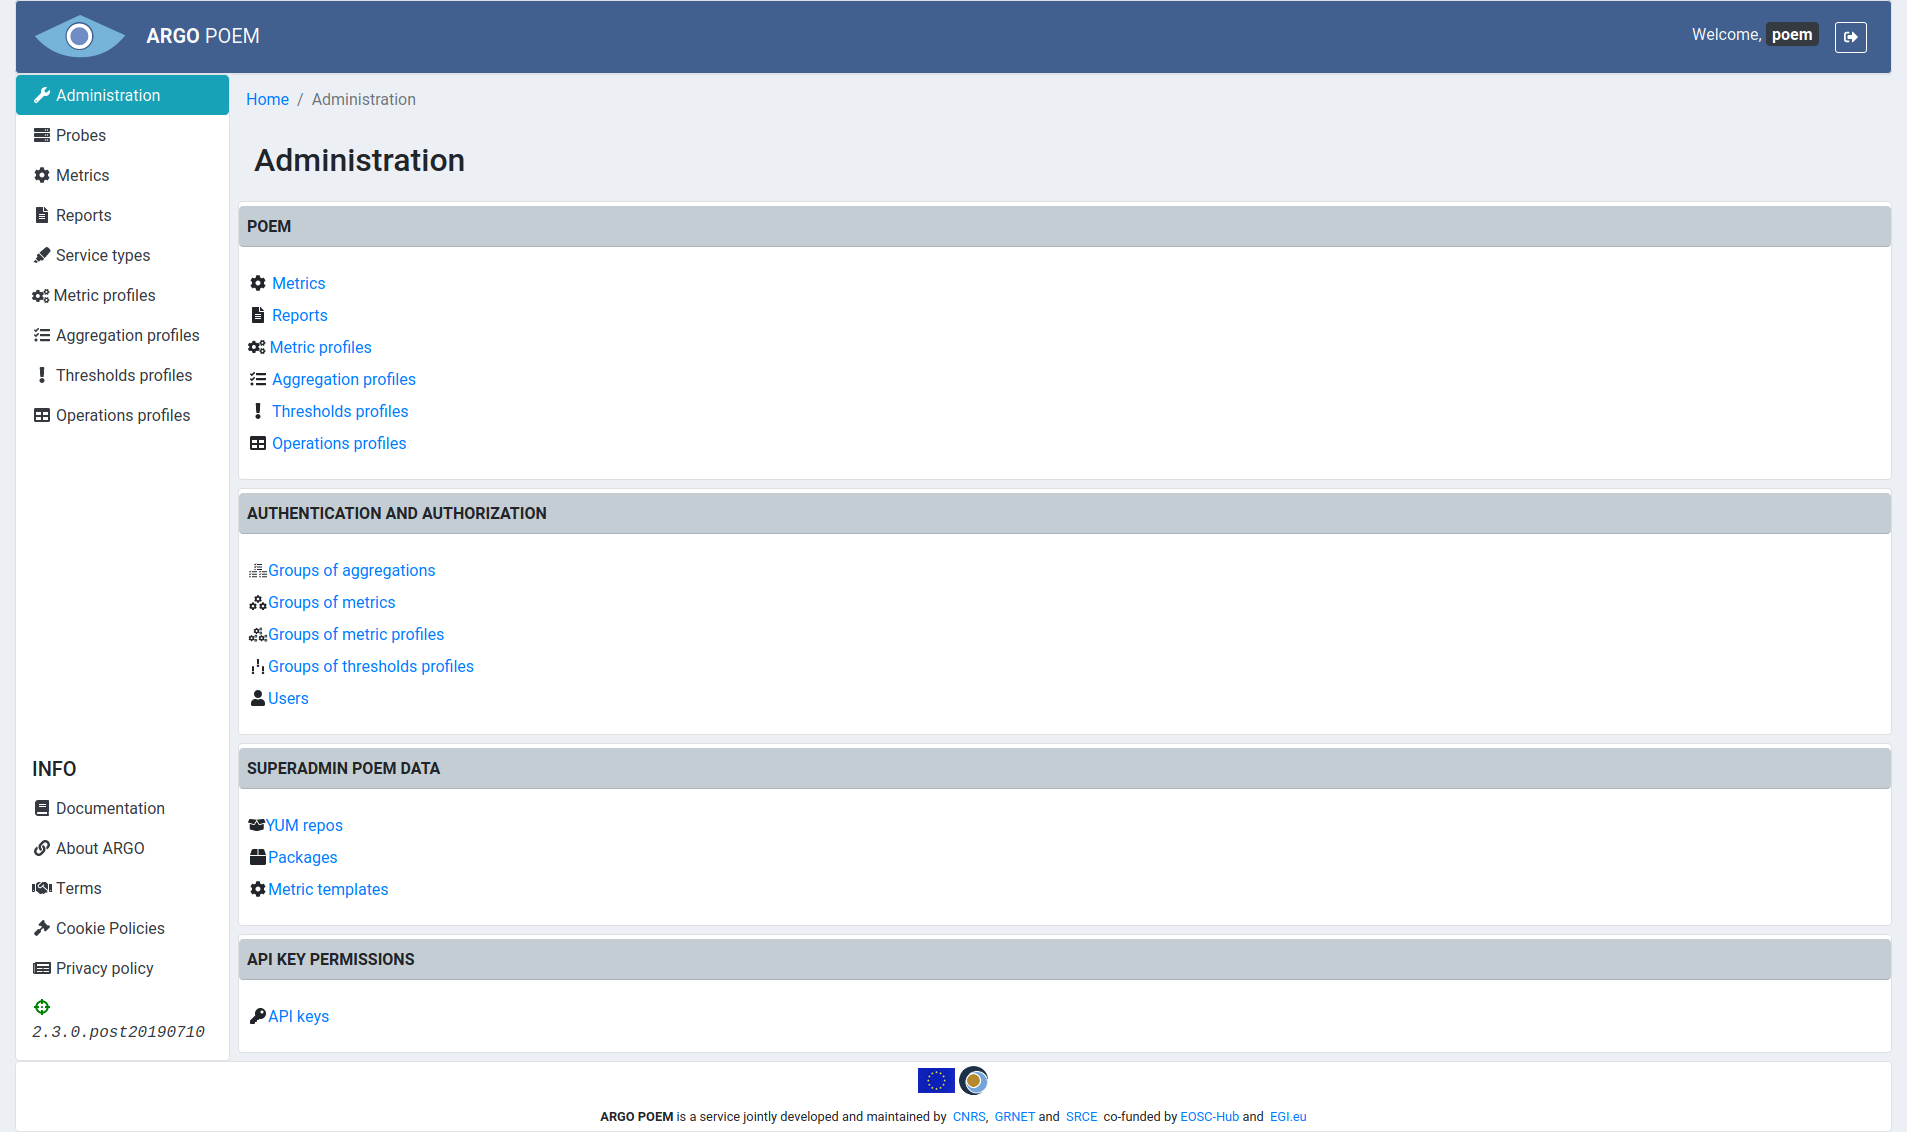
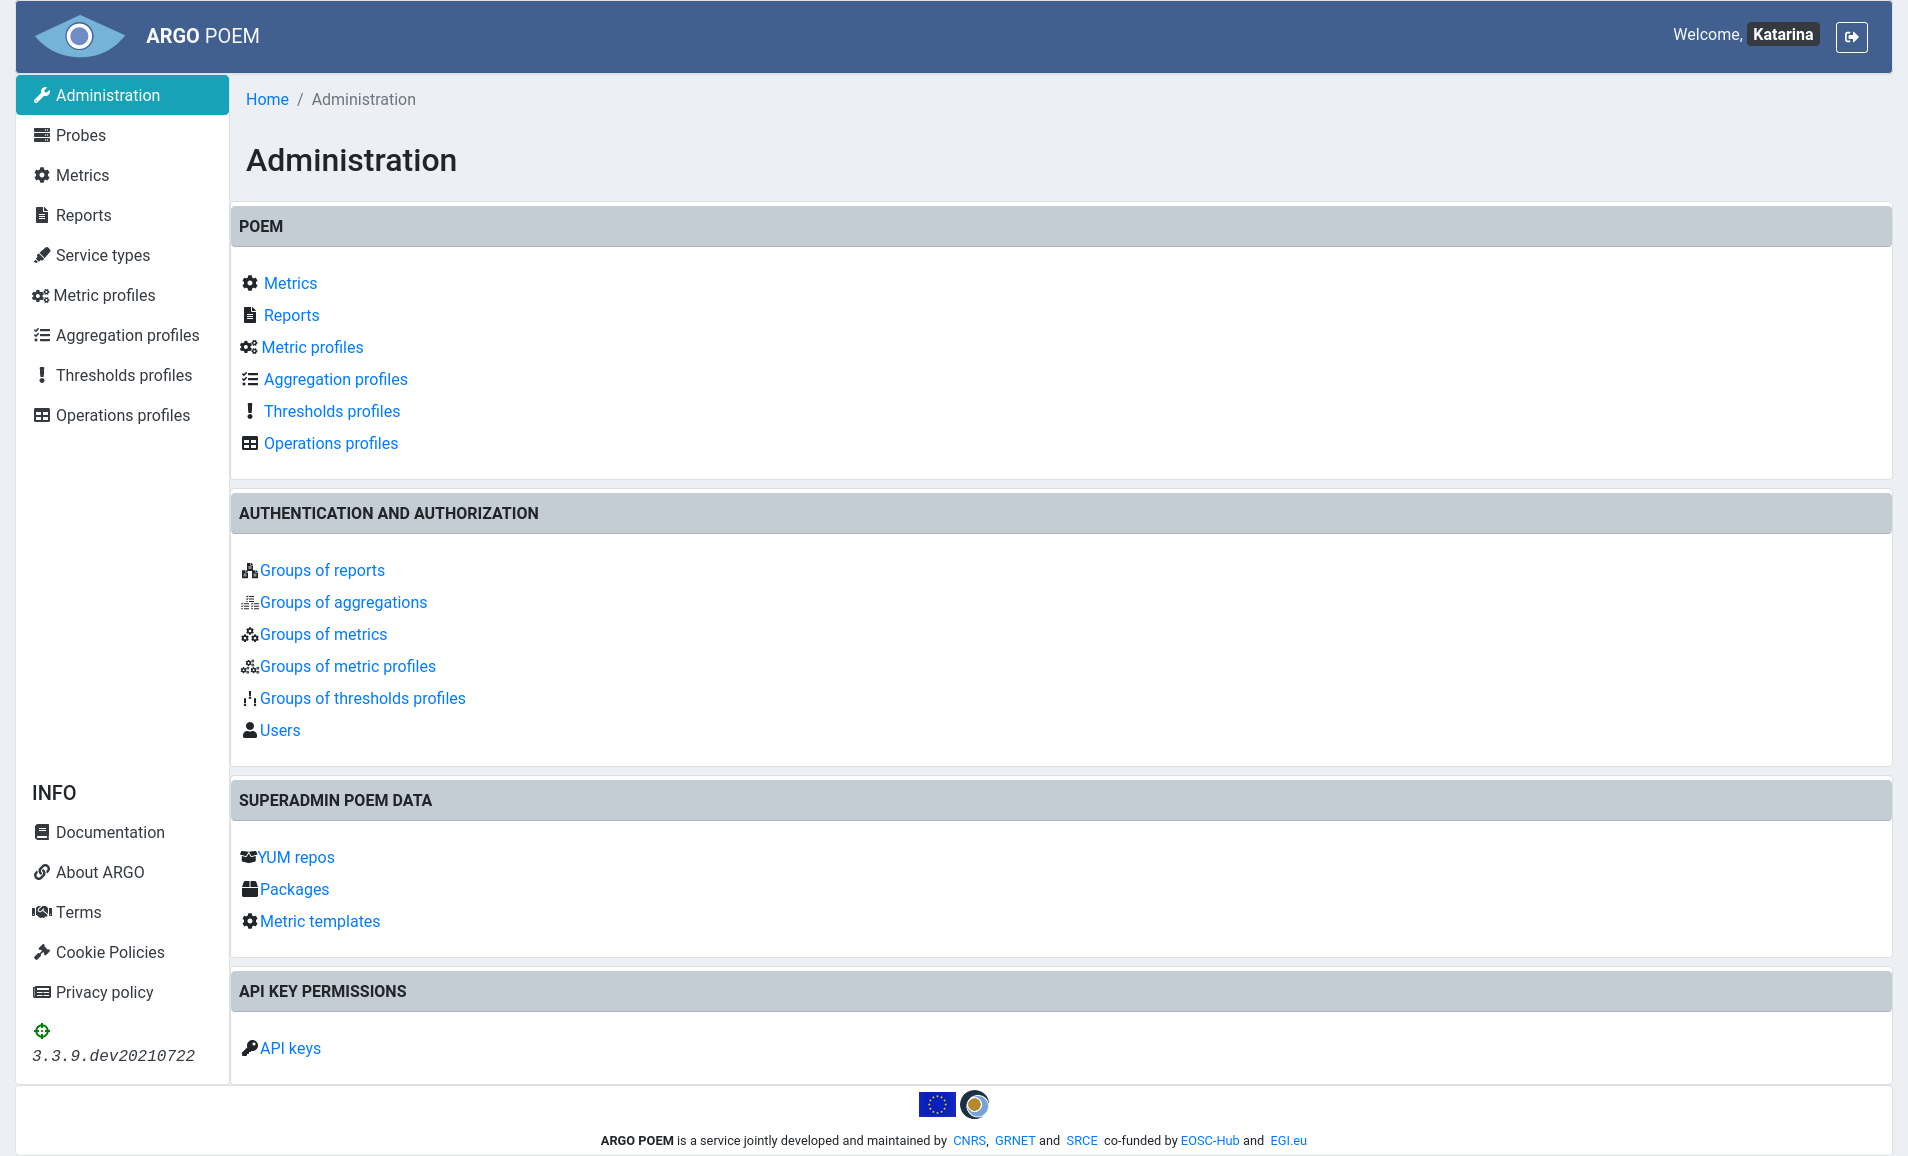
Update docs

diff --git a/poem/v1/tenant_groups_of_resources/index.html b/poem/v1/tenant_groups_of_resources/index.html
@@ -111,6 +111,8 @@
     
         <ul>
         
+            <li><a class="toctree-l4" href="#group-of-reports">Group of reports</a></li>
+        
             <li><a class="toctree-l4" href="#group-of-aggregations">Group of aggregations</a></li>
         
             <li><a class="toctree-l4" href="#group-of-metrics">Group of metrics</a></li>
@@ -220,15 +222,18 @@
             <div class="section">
               
                 <h1 id="groups-of-resources">Groups of resources</h1>
-<p>All the groups of resources are available through <a href="../tenant_administration/">Administration</a> page. There are four groups of resources:</p>
+<p>All the groups of resources are available through <a href="../tenant_administration/">Administration</a> page. There are five groups of resources:</p>
 <ul>
+<li>groups of reports,</li>
 <li>groups of aggregations,</li>
 <li>groups of metrics,</li>
 <li>groups of metric profiles,</li>
 <li>groups of thresholds profiles.</li>
 </ul>
-<p>All of the groups of resources pages look similar. By clicking the name of group, user opens page with details of that particular group of resource.</p>
+<p>All the groups of resources pages look similar. By clicking the name of group, user opens page with details of that particular group of resource.</p>
 <p>Images of groups of resources are shown below in respective sections.</p>
+<h2 id="group-of-reports">Group of reports</h2>
+<p><img alt="Tenant Group of reports" src="../figures/tenant_group_of_reports.png" /></p>
 <h2 id="group-of-aggregations">Group of aggregations</h2>
 <p><img alt="Tenant Group of aggregations" src="../figures/tenant_group_of_aggregations.png" /></p>
 <h2 id="group-of-metrics">Group of metrics</h2>
@@ -238,8 +243,8 @@
 <h2 id="group-of-thresholds-profiles">Group of thresholds profiles</h2>
 <p><img alt="Tenant Group of thresholds profiles" src="../figures/tenant_group_of_thresholds_profiles.png" /></p>
 <h2 id="sections">Sections</h2>
-<p>Once the page of the particular group of resource is opened, there are two sections. In the first section, the name is defined, and once it's defined, it is no longer possible to change it.</p>
-<p>In second section there is a table of resources associated with the particular group. There is also a multiple select field, where user can search for a resource with no group assigned and asign it to the particular group. User may select multiple resources, and by clicking the green button, they are added to the table below.</p>
+<p>All the groups of resources are organized in the same manner. There are two sections. In the first section, group's name is defined. It should be noted that once the name has been defined, it is no longer possible to change it.</p>
+<p>In second section there is a table of resources associated with the particular group. There is also a multiple select field, where user can search for a resource with no group assigned and assign it to the particular group. User may select multiple resources, and by clicking the green button, they are added to the table below.</p>
               
             </div>
           </div>

diff --git a/poem/v1/tenant_aggregation_profiles/index.html b/poem/v1/tenant_aggregation_profiles/index.html
@@ -228,6 +228,10 @@
 <p>In <strong>Service flavour groups</strong> section, the user can create new groups, and delete and modify the existing ones. For adding one uses buttons with "+" sign, for deleting buttons with "x" sign. Whole group is deleted by clicking the red "x" button.</p>
 <p>There is a validation which checks if service flavours mentioned in aggregation profile exist in the associated metric profile, and if they do not, the warning message is displayed, and the missing service flavours are marked blue (like shown in the image above).</p>
 <p>Same as for other resources, only users with appropriate permission may modify aggregation profile. That is, users that have group of aggregation the profile belongs to assigned to them, or users with superuser permission.</p>
+<h3 id="importexport-json">Import/Export JSON</h3>
+<p>There is a feature of importing and exporting aggregation profile data in a JSON file. Data being exported (or imported) includes sections <strong>Operations, endpoint group and metric profile</strong> and <strong>Service flavor groups</strong>.</p>
+<p>When exporting data, user clicks on <strong>JSON</strong> button, and selects <em>Export</em>. The file is saved as JSON with the name of the aggregation profile being exported (in this case, the name of the file would be <em>sla_test.json</em>).</p>
+<p>On the other hand, when importing data, user clics on <strong>JSON</strong> button and selects <em>Import</em>. The data in the sections <em>Operations, endpoint group and metric profile</em> and <em>Service flavour groups</em> are then overridden by the data in the file being imported.</p>
 <h3 id="aggregation-profile-history">Aggregation profile history</h3>
 <p>By clicking <strong>History</strong> button, user can see the changes made to the profile, the time they were made, and by whom they were made.</p>
               

diff --git a/poem/v1/superadmin_tenants/index.html b/poem/v1/superadmin_tenants/index.html
@@ -78,6 +78,12 @@
             
     <li class="toctree-l3"><a href="#tenants">Tenants</a></li>
     
+        <ul>
+        
+            <li><a class="toctree-l4" href="#tenant-details">Tenant details</a></li>
+        
+        </ul>
+    
 
     </ul>
                 </li>
@@ -209,6 +215,12 @@
 <p>Tenant page is accessible from the menu on the left side. It is shown in the image below. </p>
 <p><img alt="SuperAdmin Tenants" src="../figures/superadmin_tenants.png" /></p>
 <p>The figure shows main info on each tenant: Postgres DB schema name, POEM url, and total number of probes and metrics used by the given tenant. There is also so called <strong>SuperPOEM tenant</strong> which is not a technically a tenant. Information given on the SuperPOEM tenant probes and metrics refers to the total number of probes and metric templates given in POEM.</p>
+<p>Clicking on the tenant card opens the tenant details page.</p>
+<h2 id="tenant-details">Tenant details</h2>
+<p>Tenant details page is shown in the image below.</p>
+<p><img alt="SuperAdmin Tenants Details" src="../figures/superadmin_tenants_details.png" /></p>
+<p>In addition to the information given in the tenant list page, this one also gives information on the date when the chosen tenant has been created. All the fields are disabled, since this is only an info page.</p>
+<p>There is also a <strong>Delete</strong> button, which will delete the particular tenant, along with its Postgres schema.</p>
               
             </div>
           </div>

diff --git a/poem/v1/tenant_metric_profiles/index.html b/poem/v1/tenant_metric_profiles/index.html
@@ -242,6 +242,7 @@
 <p>There is a feature of importing and exporting table in the <strong>Metric instances</strong> section in a .csv file. </p>
 <p>When exporting, user clicks <strong>Export</strong> in <strong>CSV</strong> dropdown button, and file is stored to the computer. The name of the file is <em>PROFILE_NAME.csv</em> (in this example it would be <em>FEDCLOUD.csv</em>).</p>
 <p>When importing, user clicks <strong>Import</strong> in <strong>CSV</strong> dropdown button, and selects the file (s)he wants to import. Metric instances are then overridden with values from imported .csv file.</p>
+<p>When the metrics have been imported, they are also validated, and the user is informed if the metric is not present in the tenant's POEM database. If that is the case, user should import the missing metrics as described in <a href="../tenant_metric_templates/">metric template page</a>.</p>
 <h3 id="metric-profile-history">Metric profile history</h3>
 <p>By clicking the <strong>History</strong> button, the user can see all the changes made to the profile, when they were made and by whom (image below).</p>
 <p><img alt="Tenant Metric Profile History" src="../figures/tenant_metric_profiles_history.png" /></p>

diff --git a/poem/v1/tenant_reports/index.html b/poem/v1/tenant_reports/index.html
@@ -201,7 +201,7 @@
 <p><img alt="Tenant Reports" src="../figures/tenant_reports.png" /></p>
 <p>The table lists report name and short description. </p>
 <h2 id="reports-details">Reports details</h2>
-<p>By clicking the report's name, user can access reports details page (shown in the image below). </p>
+<p>By clicking the report's name, user can access reports change page (shown in the image below). </p>
 <p><img alt="Tenant Reports Details" src="../figures/tenant_reports_details.png" /></p>
 <h3 id="sections">Sections</h3>
 <p>The first part of the page contains basic information on the chosen report, which includes <strong>Name</strong>, <strong>Description</strong>, and <strong>Group</strong> of reports it belongs to.</p>

diff --git a/api/v2/site/index.html b/api/v2/site/index.html
@@ -249,5 +249,5 @@
 
 <!--
 MkDocs version : 1.0.4
-Build Date UTC : 2021-08-25 06:31:33
+Build Date UTC : 2021-09-01 11:22:43
 -->

diff --git a/messaging/v1/index.html b/messaging/v1/index.html
@@ -269,5 +269,5 @@
 
 <!--
 MkDocs version : 1.0.4
-Build Date UTC : 2021-08-25 06:31:33
+Build Date UTC : 2021-09-01 11:22:43
 -->
